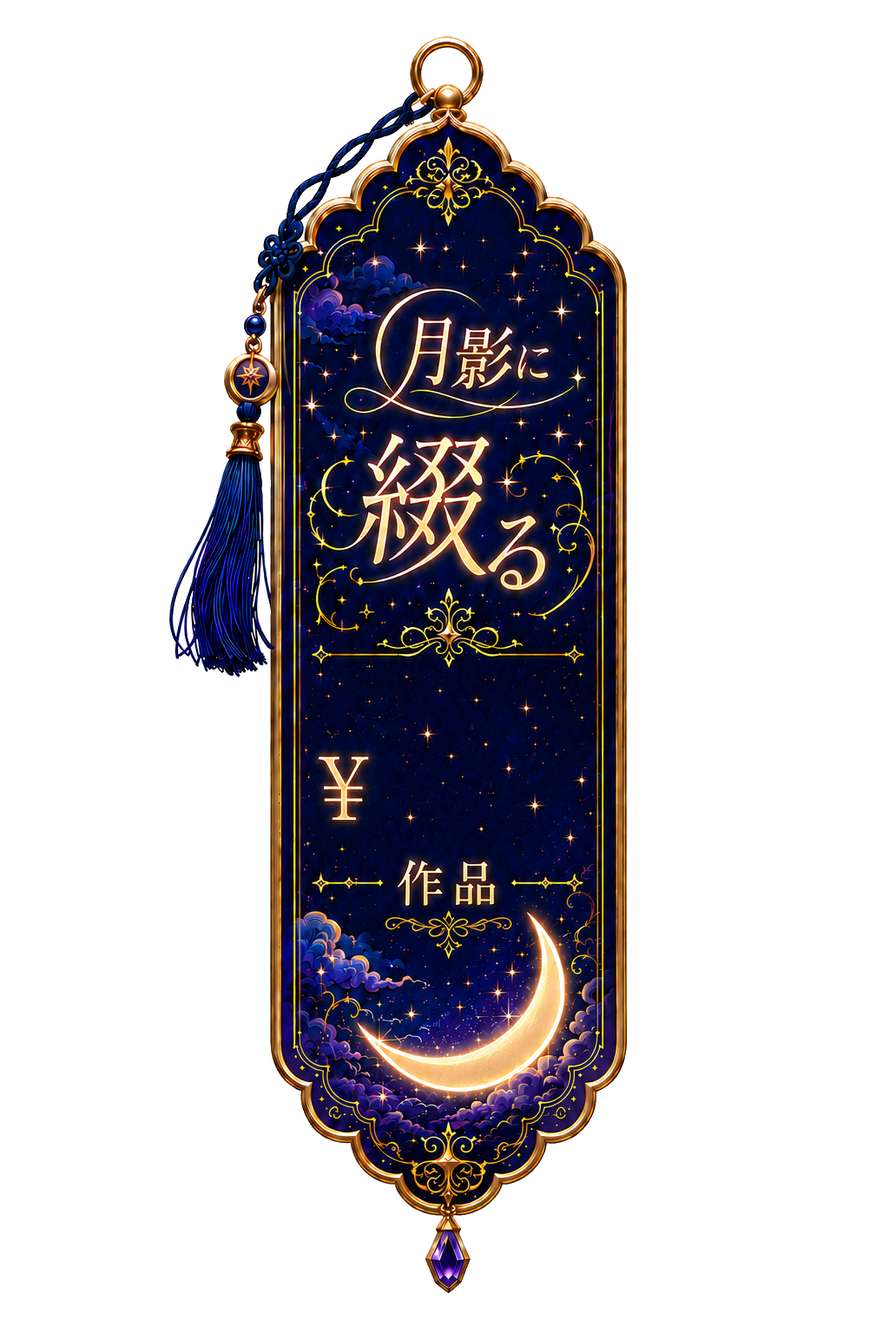
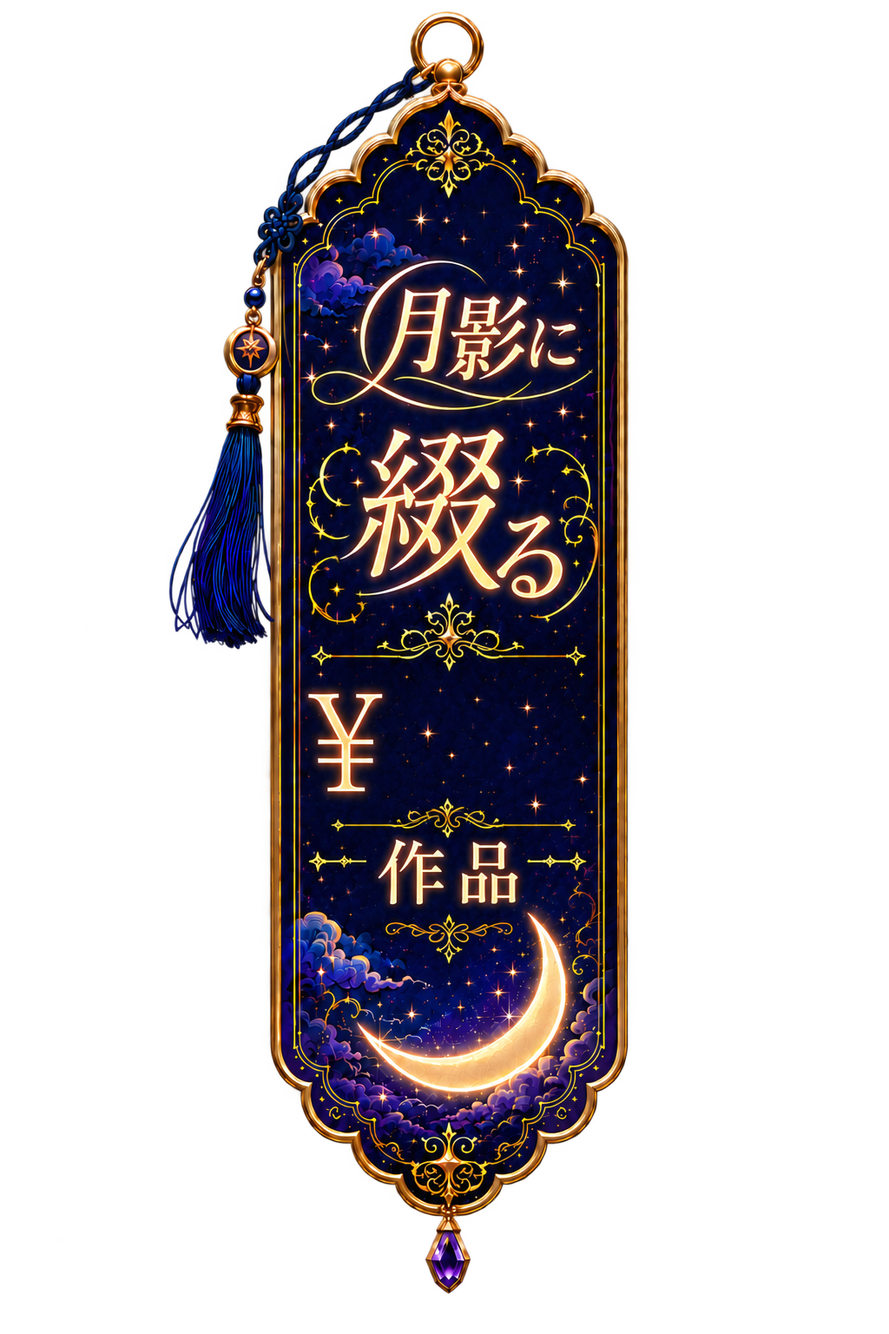
feat(セール札/月詠み価格): 焼き込み文字拡大の新PNGへ差し替え+数字slot追従(v=696)
- assets/promo/tsukuyomi-price-base.png を再生成版へ差し替え(月影に/綴る/¥/作品 を1.3〜1.5倍・Chami)
- ¥拡大で縦中心0.588→0.557・上下の飾り罫が0.490/0.661→0.492/0.618へ詰まったため
  数字slotを {y0.518,h0.140}→{y0.503,h0.103} へ再測定(帯中央=¥中心と一致・罫に非接触を画素解析で確認)
- promo-label.js: JSからsrc指定で読むテンプレPNGにscriptの?v=を引き継ぎ同名差し替えのキャッシュ焼けを解消

Changed region(s): [[0.1875, 0.0, 0.7188, 0.9688]]

diff --git a/index.html b/index.html
@@ -14,16 +14,16 @@
 <meta name="apple-mobile-web-app-status-bar-style" content="black-translucent">
 <meta name="apple-mobile-web-app-title" content="5秒動画">
 <meta name="theme-color" content="#0b0f17">
-<link rel="manifest" href="manifest.webmanifest?v=695">
-<link rel="apple-touch-icon" href="assets/icons/app-180.png?v=695">
-<link rel="icon" type="image/png" sizes="192x192" href="assets/icons/app-192.png?v=695">
-<link rel="icon" type="image/png" sizes="512x512" href="assets/icons/app-512.png?v=695">
-<link rel="icon" type="image/png" href="assets/icons/app-192.png?v=695">
+<link rel="manifest" href="manifest.webmanifest?v=696">
+<link rel="apple-touch-icon" href="assets/icons/app-180.png?v=696">
+<link rel="icon" type="image/png" sizes="192x192" href="assets/icons/app-192.png?v=696">
+<link rel="icon" type="image/png" sizes="512x512" href="assets/icons/app-512.png?v=696">
+<link rel="icon" type="image/png" href="assets/icons/app-192.png?v=696">
 <title>5秒動画メーカー</title>
 <link rel="preconnect" href="https://fonts.googleapis.com">
 <link rel="preconnect" href="https://fonts.gstatic.com" crossorigin>
 <link href="https://fonts.googleapis.com/css2?family=Noto+Sans+JP:wght@500;700;900&display=swap" rel="stylesheet">
-<link rel="stylesheet" href="style.css?v=695">
+<link rel="stylesheet" href="style.css?v=696">
 <script>
 /* 継ぎ目対策(2026-07-29): タブ背景のCSSフック(data-tab)を「描画前」に確定させる。
    これが無いと、復元先タブ(予約/分析/候補/ランキング)のクリーム封鎖が効くのは
@@ -47,7 +47,7 @@ try {
   }, true);
   document.addEventListener('DOMContentLoaded', function () {
     try {
-      // ★v=605の filter は /\.js$/ で判定していたが、実ファイル名は "bluesky.js?v=695" と
+      // ★v=605の filter は /\.js$/ で判定していたが、実ファイル名は "bluesky.js?v=696" と
       //   ?v= が付くため全て弾かれ、初期化エラーが1件も出ず「例外なし」に見えていた(2026-08-03 真因)。
       //   クエリを外してから .js を判定する。加えて、拾えた未捕捉エラーはそのまま出す(沈黙を残さない)。
       var errs = (window.__go5Errs || []).filter(function (e) {
@@ -84,11 +84,11 @@ try {
 <nav class="tabbar">
   <button id="tabCand"    class="tab">💡 候補</button>
   <button id="tabVerify" class="tab">📋 投稿履歴</button>
-  <button id="tabMovie" class="tab active"><img class="emico" src="assets/icons/ic-movie.png?v=695" alt=""> 動画作成</button>
+  <button id="tabMovie" class="tab active"><img class="emico" src="assets/icons/ic-movie.png?v=696" alt=""> 動画作成</button>
   <button id="tabStock" class="tab">📦 ドラフト</button>
   <button id="tabYT"    class="tab"><svg viewBox="0 0 28 20" style="height:1em;width:1.4em;vertical-align:-0.18em" aria-hidden="true"><rect width="28" height="20" rx="6" fill="#FF0000"/><path d="M11 6 L11 14 L20 10 Z" fill="#fff"/></svg> 投稿</button>
-  <button id="tabPost"  class="tab"><img class="emico" src="assets/icons/ic-bsky.png?v=695" alt=""> 投稿</button>
-  <button id="tabAffi"  class="tab"><img class="emico" src="assets/icons/ic-link.png?v=695" alt=""> AFIリンク</button>
+  <button id="tabPost"  class="tab"><img class="emico" src="assets/icons/ic-bsky.png?v=696" alt=""> 投稿</button>
+  <button id="tabAffi"  class="tab"><img class="emico" src="assets/icons/ic-link.png?v=696" alt=""> AFIリンク</button>
   <button id="tabSettings" class="tab">⚙ 詳細設定</button>
 </nav>
 
@@ -279,13 +279,13 @@ try {
   <section class="card">
     <label class="bsky-toggle">
       <input id="bskyEnable" type="checkbox">
-      <span><img class="emico" src="assets/icons/ic-bsky.png?v=695" alt="Bluesky"> 動画作成後に Bluesky へ自動投稿する</span>
+      <span><img class="emico" src="assets/icons/ic-bsky.png?v=696" alt="Bluesky"> 動画作成後に Bluesky へ自動投稿する</span>
     </label>
     <label class="bsky-toggle" style="margin-top:8px;">
       <input id="testMode" type="checkbox">
       <span>🧪 テストモード(Blueskyへは実際に投稿するが、記録シートには残さない)</span>
     </label>
-    <div class="hint">本文は「<img class="emico" src="assets/icons/ic-bsky.png?v=695" alt="Bluesky"> 投稿」タブで編集した内容、画像は<b>この動画の元写真</b>を添付します。アカウント設定も「<img class="emico" src="assets/icons/ic-bsky.png?v=695" alt="Bluesky"> 投稿」タブにあります。<br>単独で投稿したいときは「<img class="emico" src="assets/icons/ic-bsky.png?v=695" alt="Bluesky"> 投稿」タブの「今すぐ投稿」をどうぞ。</div>
+    <div class="hint">本文は「<img class="emico" src="assets/icons/ic-bsky.png?v=696" alt="Bluesky"> 投稿」タブで編集した内容、画像は<b>この動画の元写真</b>を添付します。アカウント設定も「<img class="emico" src="assets/icons/ic-bsky.png?v=696" alt="Bluesky"> 投稿」タブにあります。<br>単独で投稿したいときは「<img class="emico" src="assets/icons/ic-bsky.png?v=696" alt="Bluesky"> 投稿」タブの「今すぐ投稿」をどうぞ。</div>
     <div class="movie-work" style="margin-top:12px;">
       <label class="field-label" for="movieWorkUrl" style="margin:0 0 4px;font-size:.8rem;">📕 今回案内する作品URL(今日の作品を貼る・取り違え防止)</label>
       <a id="movieWorkLink" href="#" target="_blank" rel="noopener noreferrer" style="display:block;white-space:nowrap;overflow:hidden;text-overflow:ellipsis;color:var(--accent);font-size:.85rem;min-height:1.4em;margin-bottom:4px;">(URLを入力してください)</a>
@@ -323,7 +323,7 @@ try {
       <label class="disc-new"><input id="discountNew2" type="checkbox"><span>新作</span></label>
       <label class="disc-new"><input id="discountDigest2" type="checkbox"><span>総集編</span></label>
       <label class="disc-new"><input id="movieJunshinsaku" type="checkbox"><span>準新作</span></label>
-      <span class="hint" style="margin:0;">投稿本文(自動投稿・今すぐ投稿で共通)に割引文を挿入します。「<img class="emico" src="assets/icons/ic-bsky.png?v=695" alt="Bluesky">投稿」タブの本文に反映されます。「新作」で「オフの新作」、「総集編」で「オフの総集編」、両方で「オフの新作&総集編」に文面が変わります。<br>「準新作」は本文に影響しませんが、投稿時の<b>作品状態</b>として記録します。(新作・準新作いずれも無し＝旧作)</span>
+      <span class="hint" style="margin:0;">投稿本文(自動投稿・今すぐ投稿で共通)に割引文を挿入します。「<img class="emico" src="assets/icons/ic-bsky.png?v=696" alt="Bluesky">投稿」タブの本文に反映されます。「新作」で「オフの新作」、「総集編」で「オフの総集編」、両方で「オフの新作&総集編」に文面が変わります。<br>「準新作」は本文に影響しませんが、投稿時の<b>作品状態</b>として記録します。(新作・準新作いずれも無し＝旧作)</span>
     </div>
     <div class="status" id="bskyStatus"></div>
   </section>
@@ -360,7 +360,7 @@ try {
   <div class="cal-frame-wrap">
     <iframe id="calFrame" class="cal-frame" title="投稿スケジュール カレンダー" loading="lazy"></iframe>
   </div>
-  <p class="hint" style="text-align:center;max-width:520px;margin:8px auto 0;">📅 最適な投稿スロット(日時・枠)を管理。各枠を決めたら「<img class="emico" src="assets/icons/ic-movie.png?v=695" alt=""> 動画作成」「<img class="emico" src="assets/icons/ic-bsky.png?v=695" alt="Bluesky"> 投稿」へ。データはこの端末内で共有されます。</p>
+  <p class="hint" style="text-align:center;max-width:520px;margin:8px auto 0;">📅 最適な投稿スロット(日時・枠)を管理。各枠を決めたら「<img class="emico" src="assets/icons/ic-movie.png?v=696" alt=""> 動画作成」「<img class="emico" src="assets/icons/ic-bsky.png?v=696" alt="Bluesky"> 投稿」へ。データはこの端末内で共有されます。</p>
 </section>
 
 <!-- YouTube投稿画面：題名・タグ・短縮URL・概要欄(コピーして使う) -->
@@ -381,12 +381,12 @@ try {
 
   <!-- 短縮URL表示 ＋ YouTube説明欄 -->
   <section class="card">
-    <div class="field-label"><img class="emico" src="assets/icons/ic-link.png?v=695" alt="リンク"> 最新の投稿(短縮URL)</div>
+    <div class="field-label"><img class="emico" src="assets/icons/ic-link.png?v=696" alt="リンク"> 最新の投稿(短縮URL)</div>
     <div class="short-row">
       <code id="shortUrlOut" class="short-url">投稿すると短縮URLを表示</code>
       <button id="shortUrlCopy" class="copy-btn" type="button">URLをコピー</button>
     </div>
-    <div class="hint">動画作成後の自動投稿／今すぐ投稿のあと、Bluesky投稿のURLを短縮して表示します。(短縮には<img class="emico" src="assets/icons/ic-bsky.png?v=695" alt="Bluesky">投稿タブ⚙の記録用GAS設定が必要)</div>
+    <div class="hint">動画作成後の自動投稿／今すぐ投稿のあと、Bluesky投稿のURLを短縮して表示します。(短縮には<img class="emico" src="assets/icons/ic-bsky.png?v=696" alt="Bluesky">投稿タブ⚙の記録用GAS設定が必要)</div>
 
     <label class="field-label" for="ytDesc" style="margin-top:12px;">📺 YouTube説明欄(コピーして概要欄に貼り付け)</label>
     <textarea id="ytDesc" rows="8">↑ URLを長押し&リンクを開く ↑
@@ -426,7 +426,7 @@ try {
        主運用先・2026-07-23 Chami指定)。本文・テンプレ帳・割引URL管理は下のBluesky欄と共有(同じ
        アカウント別の状態を見ている＝どちらで編集しても両方に反映される)。 -->
   <section class="card" id="xTweetSection">
-    <div class="field-label"><img class="emico" src="assets/icons/ic-x.png?v=695" alt="X"> X(Twitter)用投稿テキスト(コピペして手動投稿)</div>
+    <div class="field-label"><img class="emico" src="assets/icons/ic-x.png?v=696" alt="X"> X(Twitter)用投稿テキスト(コピペして手動投稿)</div>
     <div class="hint">下の「投稿本文」欄(テンプレ帳・割引URL管理を含む)と共通の内容から自動で組み立てます。ここのテキストをコピーしてXへ貼り付けてください。URL は 23文字換算 / 全体 280文字制限(日本語は1字=2で消費)。</div>
     <div id="xAcctHint" style="margin-top:6px;font-size:.82rem;color:var(--sub);"></div>
     <textarea id="xTweetText" rows="6" style="margin-top:8px;font-size:.8rem;word-break:break-all;background:#0a0f1c;color:var(--fg,#e8e8e8);border:1px solid var(--border,#2a3040);border-radius:6px;padding:8px;width:100%;box-sizing:border-box;resize:vertical;"></textarea>
@@ -493,7 +493,7 @@ try {
     <a id="bskyWorkLink" href="#" target="_blank" rel="noopener" style="display:block;overflow:hidden;white-space:nowrap;text-overflow:ellipsis;color:var(--sub);font-size:.85rem;min-height:1.4em;margin-bottom:4px;">(URLを入力してください)</a>
     <input id="bskyWorkUrl" type="url" inputmode="url" placeholder="https://…" autocomplete="off" autocorrect="off" autocapitalize="off" spellcheck="false" style="width:100%;box-sizing:border-box;">
     <div id="bskyWorkAffiPreview" style="margin-top:4px;font-size:.82rem;word-break:break-all;"></div>
-    <div class="hint">af_id は「<img class="emico" src="assets/icons/ic-link.png?v=695" alt="リンク"> アフィリンク」タブの設定を流用。空欄なら本文だけ投稿します。この本文＋作品URLは<b>自動投稿(方法①)でも共通</b>。</div>
+    <div class="hint">af_id は「<img class="emico" src="assets/icons/ic-link.png?v=696" alt="リンク"> アフィリンク」タブの設定を流用。空欄なら本文だけ投稿します。この本文＋作品URLは<b>自動投稿(方法①)でも共通</b>。</div>
   </section>
 
   <!-- 🔥 セール案内URL管理(複数保持・名前付き・追加/選択/保存/削除。選んだURLは次回も自動で使う・アカウント別)。★添付画像より上に配置(Chami指定2026-08-02) -->
@@ -528,7 +528,7 @@ try {
     <div class="field-label">プレビュー(このまま投稿されます)</div>
     <div class="bsky-card">
       <div class="bsky-head">
-        <div class="bsky-av"><img id="pvAvatar" alt="" hidden><span id="pvAvFallback"><img class="emico" src="assets/icons/ic-x.png?v=695" alt="X"></span></div>
+        <div class="bsky-av"><img id="pvAvatar" alt="" hidden><span id="pvAvFallback"><img class="emico" src="assets/icons/ic-x.png?v=696" alt="X"></span></div>
         <div>
           <div class="bsky-name" id="pvName">あなた</div>
           <div class="bsky-handle" id="pvHandle">@(ハンドル未設定)</div>
@@ -546,7 +546,7 @@ try {
     <label class="field-label" for="postSchedAt" style="font-size:.8rem;margin:0 0 4px;">⏰ 予約時刻(今すぐ投稿なら空欄のまま)</label>
     <input id="postSchedAt" type="datetime-local" style="margin-bottom:10px;width:100%;box-sizing:border-box;font-size:.88rem;">
     <div style="display:flex;gap:8px;">
-      <button id="postNowBtn" class="primary bsky-post-btn" style="flex:1;font-size:.88rem;padding:7px 10px;"><img class="emico" src="assets/icons/ic-x.png?v=695" alt="X"> 今すぐ投稿</button>
+      <button id="postNowBtn" class="primary bsky-post-btn" style="flex:1;font-size:.88rem;padding:7px 10px;"><img class="emico" src="assets/icons/ic-x.png?v=696" alt="X"> 今すぐ投稿</button>
       <button id="postReserveBtn" class="ghost" style="flex:1;font-size:.88rem;padding:7px 10px;">⏰ 予約して投稿</button>
     </div>
     <div class="status" id="postStatus"></div>
@@ -645,14 +645,14 @@ try {
 <main>
   <!-- 再生数・クリック数(投稿別・このアカウント) -->
   <section class="card">
-    <div class="field-label">▶<img class="emico" src="assets/icons/ic-link.png?v=695" alt="リンク"> 再生数・クリック数(投稿別・このアカウント)</div>
+    <div class="field-label">▶<img class="emico" src="assets/icons/ic-link.png?v=696" alt="リンク"> 再生数・クリック数(投稿別・このアカウント)</div>
     <div class="hint">投稿した<b>短縮URLのクリック数</b>と、説明欄に載せた<b>YouTube動画の再生数</b>を一覧します。各行の「YouTube URL」を入れると、その動画の<b>再生数</b>と<b>YouTube投稿日時</b>を取得します。(取得には ⚙詳細設定 のAPIキーが必要)<br>日時は<b>YouTubeに投稿した時刻</b>を表示し、新しい順に並びます。URL未入力で投稿日時が不明なものは下にまとめます。</div>
     <details class="tools-fold">
       <summary>⚙ 管理・診断ツール(手動追加/同期/整理/修復)</summary>
       <div class="tools-fold-body">
         <div class="yt-updrow">
-          <button id="ytFetchDmm" class="ghost yt-updbtn" type="button"><span class="ub-l1"><img class="emico fico" src="assets/icons/ic-fanza.png?v=695" alt="F"> DMM</span><span class="ub-l2">作品情報を取得</span></button>
-          <button id="ytClickRefresh" class="ghost yt-updbtn" type="button"><span class="ub-l1"><img class="emico" src="assets/icons/ic-link.png?v=695" alt=""> &amp; 🔄</span><span class="ub-l2">更新</span></button>
+          <button id="ytFetchDmm" class="ghost yt-updbtn" type="button"><span class="ub-l1"><img class="emico fico" src="assets/icons/ic-fanza.png?v=696" alt="F"> DMM</span><span class="ub-l2">作品情報を取得</span></button>
+          <button id="ytClickRefresh" class="ghost yt-updbtn" type="button"><span class="ub-l1"><img class="emico" src="assets/icons/ic-link.png?v=696" alt=""> &amp; 🔄</span><span class="ub-l2">更新</span></button>
         </div>
         <div class="status" id="ytDmmStatus" style="text-align:left;margin-top:6px;"></div>
         <div class="status" id="ytClickStatus" style="text-align:left;margin-top:6px;"></div>
@@ -664,9 +664,9 @@ try {
           <button id="ytLossEvidence" class="ghost" type="button" title="投稿履歴が減った瞬間に自動記録された証拠を表示します(消えた時の原因調査用)">🕵 履歴消失の証拠を見る</button>
           <button id="ytRepairLinks" class="ghost" type="button">🔧 YT情報を診断・修復</button>
           <button id="ytRestoreHist" class="ghost" type="button">📥 シートから投稿履歴を復元</button>
-          <button id="ytBulkGen" class="ghost" type="button" style="font-size:11px;padding:4px 8px;opacity:.7;"><img class="emico" src="assets/icons/ic-link.png?v=695" alt="リンク"> 計測リンク再生成</button>
+          <button id="ytBulkGen" class="ghost" type="button" style="font-size:11px;padding:4px 8px;opacity:.7;"><img class="emico" src="assets/icons/ic-link.png?v=696" alt="リンク"> 計測リンク再生成</button>
         </div>
-        <div class="hint">投稿履歴を開くと、未生成の投稿に<b>計測用の短縮リンクが自動生成</b>されます。(各行の「Bsky↗」が計測用URL。長押しでコピー→YouTube概要欄に貼り替え)「<img class="emico" src="assets/icons/ic-link.png?v=695" alt="リンク"> 計測リンク再生成」は手動でやり直したいときだけ使います。</div>
+        <div class="hint">投稿履歴を開くと、未生成の投稿に<b>計測用の短縮リンクが自動生成</b>されます。(各行の「Bsky↗」が計測用URL。長押しでコピー→YouTube概要欄に貼り替え)「<img class="emico" src="assets/icons/ic-link.png?v=696" alt="リンク"> 計測リンク再生成」は手動でやり直したいときだけ使います。</div>
         <div class="hint">「📤 スプレッドシートへ同期」＝この投稿履歴を正として、ID・投稿日時・題名・視聴回数・短縮URL・クリック数・作品cid・キャラ属性を記録シートへまとめて反映します。(押すと最新の再生数等を取得してから送信。記録用GAS設定時のみ)<br>「🧹 履歴を整理」＝この投稿履歴に無い行を記録シートから消去します。(このアカウントのタブのみ)</div>
       </div>
     </details>
@@ -867,7 +867,7 @@ try {
 <!-- 投稿前の編集できる確認(方法①自動投稿で使用) -->
 <div id="postConfirmModal" class="pc-modal" hidden>
   <div class="pc-card">
-    <div class="pc-title"><img class="emico" src="assets/icons/ic-bsky.png?v=695" alt="Bluesky"> この内容で Bluesky に投稿します(編集できます)</div>
+    <div class="pc-title"><img class="emico" src="assets/icons/ic-bsky.png?v=696" alt="Bluesky"> この内容で Bluesky に投稿します(編集できます)</div>
     <div class="pc-agecheck">⚠ 1コマ目・サムネは全年齢で大丈夫？<span>電車内で見られて困らないコマだけ使う。露出・挑発ポーズは年齢制限→Shortsのフィード配信が止まります。</span></div>
     <div class="pc-work-row" style="margin-bottom:8px;">
       <label for="pcWorkUrl" class="field-label" style="margin:0 0 4px;display:block;">📕 案内する作品URL(今日の作品か必ず確認)</label>
@@ -914,43 +914,43 @@ try {
 <video id="bg" muted loop playsinline preload="none" hidden></video>
 
 <!-- ── core 層(共通土台・最初に読み込む)：util/account/storage-keys ─────────── -->
-<script src="core/util.js?v=695"></script>
-<script src="core/account.js?v=695"></script>
-<script src="core/storage-keys.js?v=695"></script>
-<script src="core/categories.js?v=695"></script>
-<script src="core/idb-store.js?v=695"></script>
-<script src="core/sync.js?v=695"></script>
-<script src="core/kaizen-log.js?v=695"></script>
+<script src="core/util.js?v=696"></script>
+<script src="core/account.js?v=696"></script>
+<script src="core/storage-keys.js?v=696"></script>
+<script src="core/categories.js?v=696"></script>
+<script src="core/idb-store.js?v=696"></script>
+<script src="core/sync.js?v=696"></script>
+<script src="core/kaizen-log.js?v=696"></script>
 <!-- ── 機能層 ─────────────────────────────────────────────────────────────── -->
-<script src="idgen.js?v=695"></script>
-<script src="app.js?v=695"></script>
-<script src="promo-label.js?v=695"></script>
-<script src="affiliate-core.js?v=695"></script>
-<script src="fanza-core.js?v=695"></script>
-<script src="affiliate.js?v=695"></script>
-<script src="bluesky-core.js?v=695"></script>
-<script src="scheduler.js?v=695"></script>
-<script src="bluesky.js?v=695"></script>
-<script src="drive-upload.js?v=695"></script>
-<script src="verify-core.js?v=695"></script>
-<script src="verify.js?v=695"></script>
-<script src="schedule/data/holidays.js?v=695"></script>
-<script src="hist-merge-core.js?v=695"></script>
-<script src="rank-core.js?v=695"></script>
-<script src="yt-clicks.js?v=695"></script>
-<script src="competitor.js?v=695"></script>
-<script src="link-ledger.js?v=695"></script>
-<script src="integration.js?v=695"></script>
-<script src="wizard.js?v=695"></script>
-<script src="drafts.js?v=695"></script>
-<script src="stock.js?v=695"></script>
-<script src="candidates.js?v=695"></script>
-<script src="api-diag.js?v=695"></script>
-<script src="settings-io.js?v=695"></script>
-<script src="theme-settings.js?v=695"></script>
-<script src="categories-ui.js?v=695"></script>
-<script src="persist-fields.js?v=695"></script>
-<script src="secret-reveal.js?v=695"></script>
+<script src="idgen.js?v=696"></script>
+<script src="app.js?v=696"></script>
+<script src="promo-label.js?v=696"></script>
+<script src="affiliate-core.js?v=696"></script>
+<script src="fanza-core.js?v=696"></script>
+<script src="affiliate.js?v=696"></script>
+<script src="bluesky-core.js?v=696"></script>
+<script src="scheduler.js?v=696"></script>
+<script src="bluesky.js?v=696"></script>
+<script src="drive-upload.js?v=696"></script>
+<script src="verify-core.js?v=696"></script>
+<script src="verify.js?v=696"></script>
+<script src="schedule/data/holidays.js?v=696"></script>
+<script src="hist-merge-core.js?v=696"></script>
+<script src="rank-core.js?v=696"></script>
+<script src="yt-clicks.js?v=696"></script>
+<script src="competitor.js?v=696"></script>
+<script src="link-ledger.js?v=696"></script>
+<script src="integration.js?v=696"></script>
+<script src="wizard.js?v=696"></script>
+<script src="drafts.js?v=696"></script>
+<script src="stock.js?v=696"></script>
+<script src="candidates.js?v=696"></script>
+<script src="api-diag.js?v=696"></script>
+<script src="settings-io.js?v=696"></script>
+<script src="theme-settings.js?v=696"></script>
+<script src="categories-ui.js?v=696"></script>
+<script src="persist-fields.js?v=696"></script>
+<script src="secret-reveal.js?v=696"></script>
 <script>
 /* ★起動時に「今この端末が実際に読み込んでいる版」をconsoleへ1行出す(2026-08-07)。
    狙い= 「まだ直らない/まだリロードする」報告が“古いJSが端末に張り付いているだけ”なのか

diff --git a/promo-label.js b/promo-label.js
@@ -16,6 +16,15 @@
  */
 (function () {
   'use strict';
+  // ★テンプレPNGはindex.htmlの<script src>ではなくJSからsrc指定で読むため bump.mjs の ?v= が乗らない。
+  //   同名PNGの中身を差し替えても(2026-08-10 月詠み価格札の再生成など)キャッシュで古い絵が出る。
+  //   → 自分のscriptに付いた ?v=N を拾って画像URLへ引き継ぐ=版バンプでPNGも必ずキャッシュ更新される。
+  //   currentScriptは同期実行中のみ有効なのでIIFE先頭で捕まえる(index.htmlのref検査には出ない=smoke無影響)。
+  var _ASSET_VER = (function () {
+    try { var s = (document.currentScript && document.currentScript.src) || ''; var m = s.match(/[?&]v=(\d+)/); return m ? m[1] : ''; }
+    catch (e) { return ''; }
+  })();
+  function _bust(url) { return _ASSET_VER && url ? url + (url.indexOf('?') < 0 ? '?' : '&') + 'v=' + _ASSET_VER : url; }
   var FRAME_W = 1080, FRAME_H = 1920;
   // 帯フォールバック用の基本寸法(テンプレPNGが読めない間のみ使用・フレーム基準)。
   var LBL = { w: 335, h: 79, font: 46, radius: 18 };
@@ -34,12 +43,12 @@
       discount: { src: 'assets/promo/tsukuyomi-discount-base.png',
                   slot: { x: 0.332, y: 0.306, w: 0.342, h: 0.189 } },
       price:    { src: 'assets/promo/tsukuyomi-price-base.png',
-                  // ★数字は大きくしない(Chami訂正2026-08-09)。前版(v=693)で幅を広げ数字を大きくしたが、Chamiの
-                  //   本意は「数字ではなく 月影に綴る/¥/作品 の焼き込み文字を大きく」+「10を真ん中に」だった。
-                  //   月影に綴る/¥/作品 は基材PNGに焼き込み済み=コードでは拡大できない(テンプレ画像の再生成が必要)。
-                  //   コードで出来るのは数字の大きさ・位置だけ。よって数字は元サイズ(w0.233/h0.140)へ戻し、
-                  //   ¥中心y≈0.588へ縦中央を合わせた(旧y0.505=中心0.575で¥より上に浮いていた→y0.518)。桁は中央揃え。
-                  slot: { x: 0.440, y: 0.518, w: 0.233, h: 0.140 } }
+                  // ★2026-08-10 札PNG再生成(Chami)= 焼き込み文字 月影に/綴る/¥/作品 を1.3〜1.5倍へ拡大した新素材へ差し替え。
+                  //   ¥が大きくなり縦中心が 0.588→0.557 へ上がり、¥の上下に走る飾り罫の間隔も詰まった(新: 罫y0.492/0.618・
+                  //   旧: 0.490/0.661)。数字の空きは y[0.492-0.618]=高さ0.126 に縮小。よって数字slotを その帯の中央
+                  //   (¥中心y≈0.557と一致)へ寄せ、罫に被らない高さへ調整= 旧{y0.518,h0.140}→{y0.503,h0.103}。
+                  //   画素解析で確定(¥は旧比1.50倍・new_slot プレビューで550/1980が¥と縦中央一致・罫に非接触を実測)。xとwは据え置き。
+                  slot: { x: 0.440, y: 0.503, w: 0.233, h: 0.103 } }
     },
     acc2: {
       baseW: 620, aspect: 2172 / 724,
@@ -64,7 +73,7 @@
         else { done(); }
       };
       im.onerror = function () { im._failed = true; };
-      im.src = src;
+      im.src = _bust(src);
       _imgCache[src] = im;
     }
     return im._failed ? null : im;
